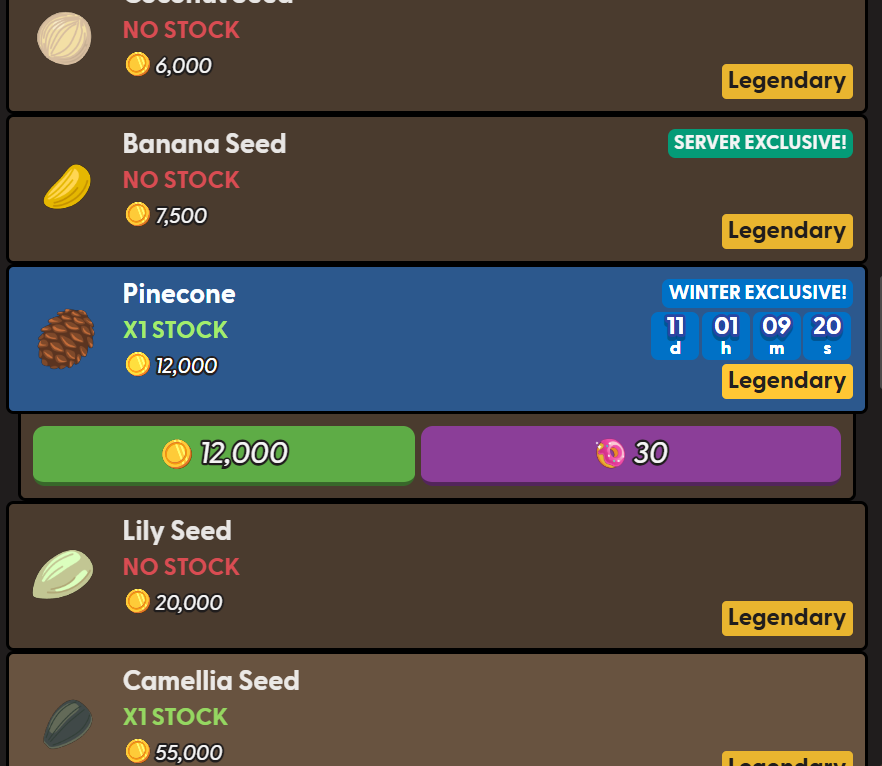
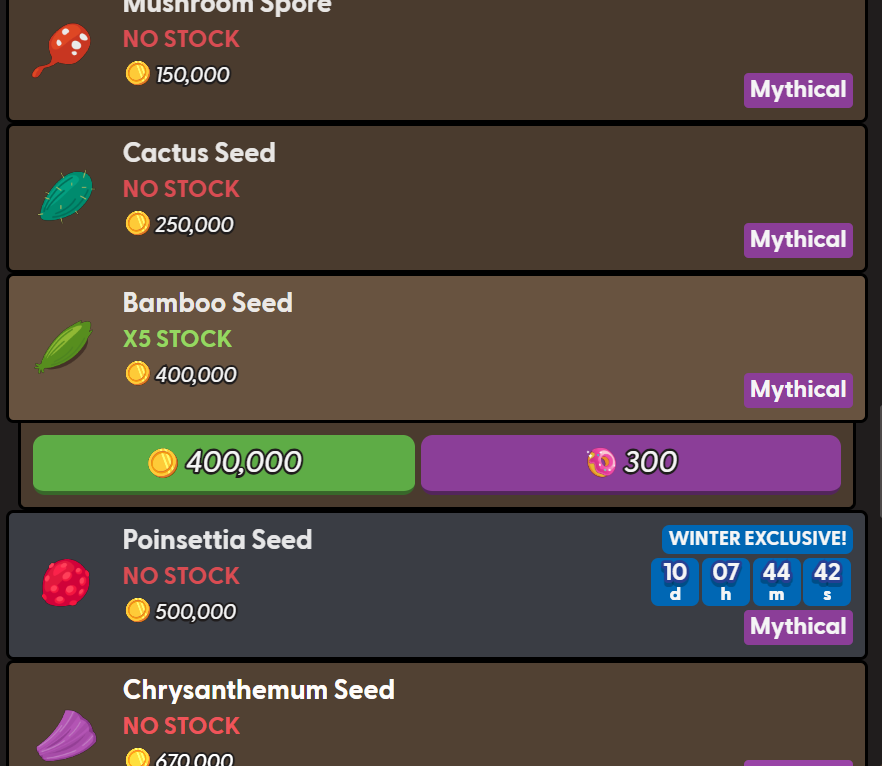
fix: use defined monitor region; revised buying flow
config.json

  - Removed "Pinecone" and "Poinsettia Seed" from buy list

  src/config.py

  - Fixed config loading bug - Now uses monitor_region from config.json instead of always overwriting with platform default

  src/auto_buyer.py

  - Increased accordion wait time - 0.7s → 1.0s with logging ("Waiting for accordion to open...")
  - Improved buy button detection flow:
    - Find button once, then keep clicking same position
    - Cursor stays on button (uses pyautogui.moveTo() once, then pyautogui.click() without coordinates)
  - Removed max attempts limit - Changed from for loop with limit to while True that only exits when button turns grey
  - Template matching validation - Increased x_offset tolerance from 150px to 400px for different layouts
  - Distance validation - If detected green is >100px from click position, treats as sold out (catches other green elements)
  - Debug output - Every 10 clicks shows what's being detected

  src/screen_capture.py

  - More permissive button detection:
    - Aspect ratio: 1.8-6.0 → 1.3-8.0
    - Min width: 40 → 25 (scaled)

diff --git a/src/auto_buyer.py b/src/auto_buyer.py
@@ -477,77 +477,102 @@ class AutoBuyer:
         pyautogui.click(abs_x, abs_y)
         self.items_detected += 1
         self.last_detection_time = time.time()
-        time.sleep(0.7)  # Wait for accordion to open (increased from 0.5)
 
         if self.on_detection:
             self.on_detection(target, (abs_x, abs_y))
 
-        # Now keep clicking the buy button until it's greyed out (sold out)
+        # Wait for accordion to fully open before capturing screenshot
+        self._log("Waiting for accordion to open...")
+        time.sleep(1.0)
+
+        # NOW capture screenshot with accordion open
+        self._log("Capturing screenshot for buy button detection...")
+        screen = self.screen.capture_screen(region)
+        green_buttons = self.screen.find_green_buttons(screen, debug=True)
+
+        buy_rel_x, buy_rel_y = None, None
+
+        if green_buttons:
+            self._log(f"Found {len(green_buttons)} green button(s): {green_buttons}")
+            if len(green_buttons) > 1:
+                self._log(f"Picking leftmost to avoid 'buy with donut'")
+                buy_rel_x, buy_rel_y = min(green_buttons, key=lambda b: b[0])
+            else:
+                buy_rel_x, buy_rel_y = green_buttons[0]
+
+        # Fallback to template matching if color detection failed
+        if buy_rel_x is None:
+            self._log("Color detection failed, trying template matching...")
+            for template_name in ["green_buy_button", "buy_button"]:
+                buy_match = self.screen.find_template(screen, template_name)
+                if buy_match:
+                    tmpl_x, tmpl_y, conf = buy_match
+                    x_offset = abs(tmpl_x - rel_x)
+                    y_below = tmpl_y - rel_y
+                    # Allow wider horizontal offset (400px) for different shop layouts
+                    if conf >= 0.85 and x_offset < 400 and y_below > 0:
+                        buy_rel_x, buy_rel_y = tmpl_x, tmpl_y
+                        self._log(f"Template '{template_name}' matched at ({buy_rel_x},{buy_rel_y}) conf={conf:.2f}")
+                        break
+                    else:
+                        self._log(f"Template '{template_name}' rejected: conf={conf:.2f}, x_offset={x_offset}, y_below={y_below} (need conf>=0.85, x<400, y>0)")
+
+        if buy_rel_x is None:
+            self._log(f"{target}: No buy button found")
+            return
+
+        # Calculate absolute position once
+        if region:
+            buy_abs_x = buy_rel_x + region[0]
+            buy_abs_y = buy_rel_y + region[1]
+        else:
+            buy_abs_x, buy_abs_y = buy_rel_x, buy_rel_y
+
+        self._log(f"Buy button at ({buy_abs_x},{buy_abs_y}) - clicking until grey")
+
+        # Move cursor to buy button once, then keep clicking until it turns grey
+        pyautogui.moveTo(buy_abs_x, buy_abs_y)
         bought_count = 0
-        for attempt in range(max_attempts):
+
+        # Keep clicking until the button is no longer green (grey = sold out)
+        while True:
             if not self.running or self.paused:
                 return
 
+            # Click at current cursor position
+            pyautogui.click()
+            bought_count += 1
+            self.items_purchased += 1
+
+            if self.on_purchase:
+                self.on_purchase(target)
+
+            time.sleep(click_delay)
+
+            # Check if button is still green
             screen = self.screen.capture_screen(region)
-
-            # Find green buy buttons by color detection
-            # When button turns grey (sold out), this won't find it
-            green_buttons = self.screen.find_green_buttons(screen, debug=(attempt == 0))
-
-            buy_rel_x, buy_rel_y = None, None
+            # Enable debug every 10 clicks to see what's being detected
+            debug_this_check = (bought_count % 10 == 0)
+            green_buttons = self.screen.find_green_buttons(screen, debug=debug_this_check)
 
             if green_buttons:
-                self._log(f"Found {len(green_buttons)} green button(s): {green_buttons}")
-                # If multiple buttons found, log them all for debugging
-                if len(green_buttons) > 1:
-                    self._log(f"WARNING: Multiple green buttons - picking leftmost to avoid 'buy with donut'")
-                    # Pick the leftmost button (lowest X) - the regular buy button is usually on the left
-                    buy_rel_x, buy_rel_y = min(green_buttons, key=lambda b: b[0])
-                else:
-                    buy_rel_x, buy_rel_y = green_buttons[0]
-
-            # Only use template fallback on FIRST attempt (before any purchase)
-            # After that, rely on color detection - if button is grey, we're done
-            if buy_rel_x is None and bought_count == 0:
-                self._log("Color detection failed, trying template matching...")
-                for template_name in ["green_buy_button", "buy_button"]:
-                    buy_match = self.screen.find_template(screen, template_name)
-                    if buy_match:
-                        tmpl_x, tmpl_y, conf = buy_match
-                        # Only accept high confidence matches (>0.85) to avoid false positives
-                        # Button should be roughly below the item - within 150px horizontally, and below in Y
-                        x_offset = abs(tmpl_x - rel_x)
-                        y_below = tmpl_y - rel_y  # positive means button is below item
-                        if conf >= 0.85 and x_offset < 150 and y_below > 0:
-                            buy_rel_x, buy_rel_y = tmpl_x, tmpl_y
-                            self._log(f"Template '{template_name}' matched at ({buy_rel_x},{buy_rel_y}) conf={conf:.2f}")
-                            break
-                        else:
-                            self._log(f"Template '{template_name}' rejected: conf={conf:.2f}, x_offset={x_offset}, y_below={y_below} (need conf>=0.85, x_offset<150, y_below>0)")
-
-            if buy_rel_x is not None:
-                if region:
-                    buy_abs_x = buy_rel_x + region[0]
-                    buy_abs_y = buy_rel_y + region[1]
-                else:
-                    buy_abs_x, buy_abs_y = buy_rel_x, buy_rel_y
-
-                self._log(f"Clicking: relative=({buy_rel_x},{buy_rel_y}) + region=({region[0] if region else 0},{region[1] if region else 0}) = absolute=({buy_abs_x},{buy_abs_y})")
-                pyautogui.click(buy_abs_x, buy_abs_y)
-                bought_count += 1
-                self.items_purchased += 1
-                self._log(f"Purchased {target}! (x{bought_count})")
-
-                if self.on_purchase:
-                    self.on_purchase(target)
-
-                time.sleep(click_delay + 0.1)
+                # Verify the detected button is near where we're clicking
+                # If the "green button" is far from our click position, it's probably something else
+                closest_dist = min(((bx - buy_rel_x)**2 + (by - buy_rel_y)**2)**0.5 for bx, by in green_buttons)
+                if closest_dist > 100:
+                    self._log(f"Warning: Detected green at {green_buttons} but far from buy button ({buy_rel_x},{buy_rel_y}), dist={closest_dist:.0f}")
+                    # Treat as sold out - the actual button is probably grey
+                    self._log(f"Purchased {target}! (x{bought_count}) - sold out")
+                    return
             else:
-                # No green button found - button is greyed out, sold out
-                self._log(f"{target}: Sold out after buying {bought_count}")
-                return
+                # Button not found - quick retry in case of animation
+                time.sleep(0.1)
+                screen = self.screen.capture_screen(region)
+                green_buttons = self.screen.find_green_buttons(screen, debug=False)
 
-        self._log(f"{target}: Reached max attempts ({max_attempts}), bought {bought_count}")
+                if not green_buttons:
+                    self._log(f"Purchased {target}! (x{bought_count}) - sold out")
+                    return
 
     def _buy_until_no_stock_template(self, template_name: str, region: Optional[Tuple[int, int, int, int]]):
         """Keep buying a specific item until NO STOCK appears (template matching version)."""

diff --git a/src/config.py b/src/config.py
@@ -39,14 +39,17 @@ class Config:
                     loaded = json.load(f)
                     merged = DEFAULT_CONFIG.copy()
                     merged.update(loaded)
-                    # Always use platform-specific monitor_region (ignore saved value)
-                    merged["monitor_region"] = MONITOR_REGIONS.get(platform.system())
-                    print(f"Using {platform.system()} monitor region: {merged['monitor_region']}")
+                    # Use config.json region if set, otherwise use platform default
+                    if "monitor_region" in loaded and loaded["monitor_region"]:
+                        print(f"Using config.json monitor region: {merged['monitor_region']}")
+                    else:
+                        merged["monitor_region"] = MONITOR_REGIONS.get(platform.system())
+                        print(f"Using {platform.system()} default monitor region: {merged['monitor_region']}")
                     return merged
             except json.JSONDecodeError:
                 print(f"Warning: Invalid config file, using defaults")
                 return DEFAULT_CONFIG.copy()
-        print(f"Using {platform.system()} monitor region: {DEFAULT_CONFIG['monitor_region']}")
+        print(f"Using {platform.system()} default monitor region: {DEFAULT_CONFIG['monitor_region']}")
         return DEFAULT_CONFIG.copy()
 
     def save(self):

diff --git a/src/screen_capture.py b/src/screen_capture.py
@@ -476,9 +476,9 @@ class ScreenCapture:
                 # Buy button must be WIDE rectangle (width > height * 1.8)
                 # This filters out square-ish seed icons (cactus, bamboo, etc.)
                 aspect_ratio = w / h if h > 0 else 0
-                min_width = int(40 * (screen_w / 645))  # Minimum width scaled
+                min_width = int(25 * (screen_w / 645))  # Minimum width scaled (lowered)
 
-                if aspect_ratio > 1.8 and aspect_ratio < 6.0 and w > min_width:
+                if aspect_ratio > 1.3 and aspect_ratio < 8.0 and w > min_width:
                     center_x = x + w // 2
                     center_y = y + h // 2
                     buttons.append((center_x, center_y, area))
